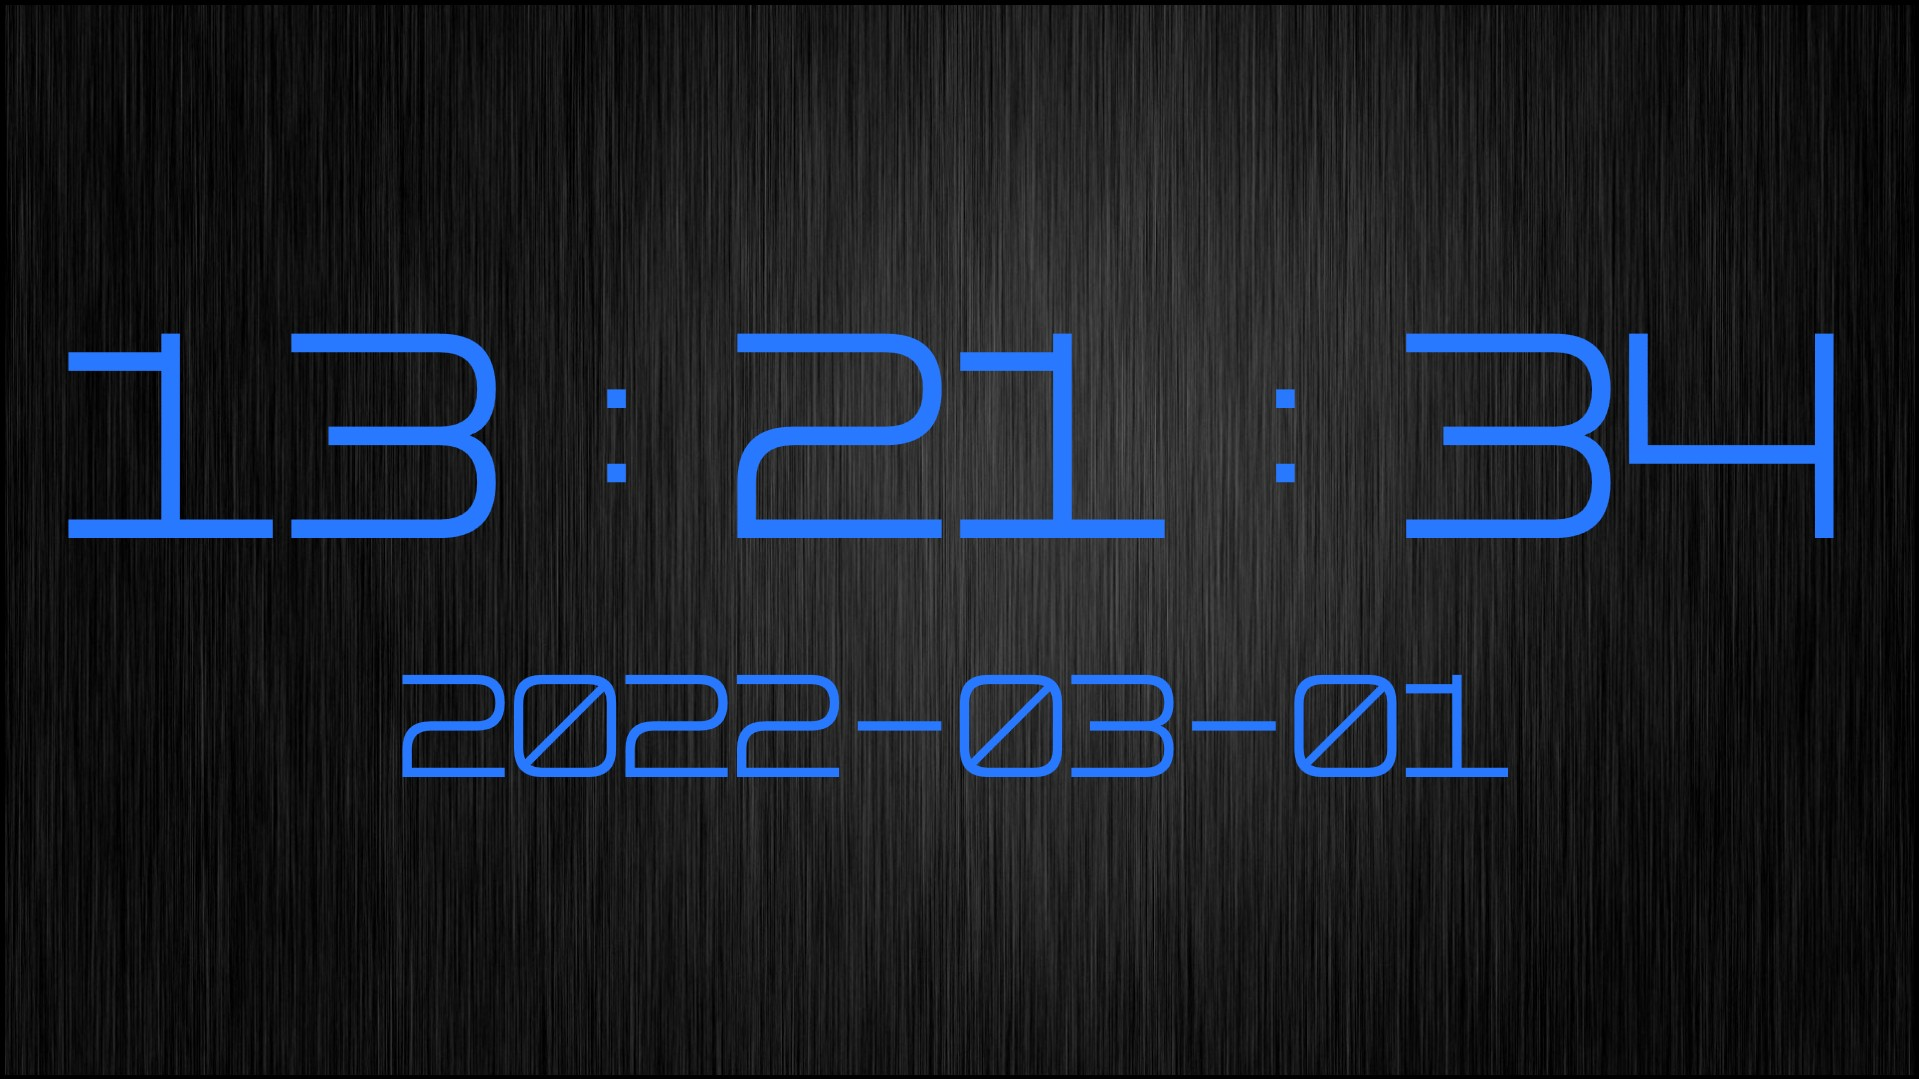
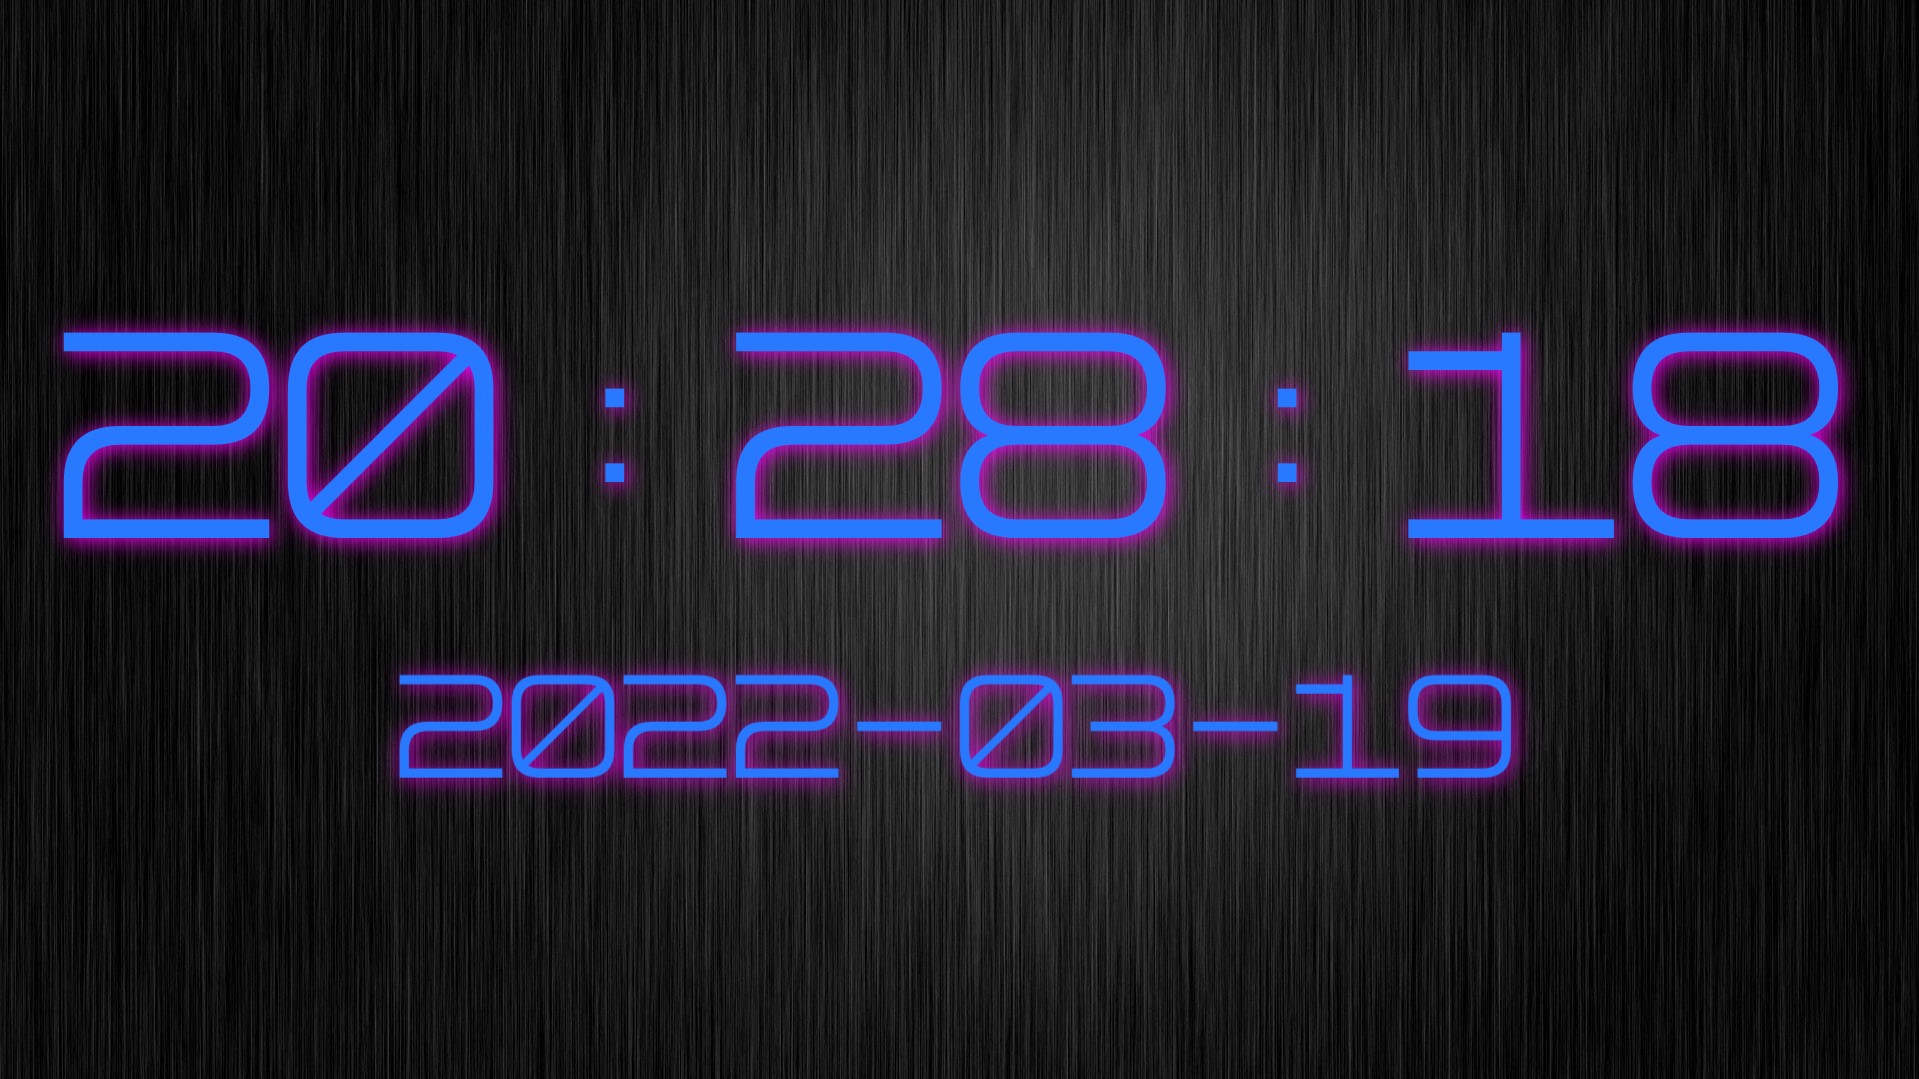
update README.md

diff --git a/README.md b/README.md
@@ -1,21 +1,31 @@
 XoClock: Clock/Chrono Destkop App
 
 Switch between Clock/Chronometer with double click.
-Keyboard commands described on UserGuide.txt
-Double instance control via command line: Refer to UserGuide.txt
+
+Keyboard commands described on *UserGuide.txt*
+
+Double instance control via command line: *Refer to UserGuide.txt*
 
 # Demo
 Time Mode
 
 ![Time](XoClock/ScreenShot/time.jpg "Time mode")
 
+Style with shadow:
+
+![Time](XoClock/ScreenShot/shadow.jpg "shadow")
+
 Chronometer Mode:
 
 ![Chrono](XoClock/ScreenShot/chronometer.jpg "Chronometer mode")
 
-Resized:
+Chronometer after 1 minute:
 
 ![Chrono](XoClock/ScreenShot/chronometer2.jpg "Chronometer mode")
+
+Resizable:
+
+![Chrono](XoClock/ScreenShot/resizable.jpg "resizable")
 
 Full Screen with F1:
 
@@ -23,4 +33,8 @@ Full Screen with F1:
 
 With opacity changed with scroll of the mouse:
 
-![Chrono](XoClock/ScreenShot/chronometer3.jpg "Chronometer mode")
+![Chrono](XoClock/ScreenShot/opacity.jpg "opacity")
+
+Controlable via command line:
+
+![Chrono](XoClock/ScreenShot/cmd_line.jpg "cmd_line")
